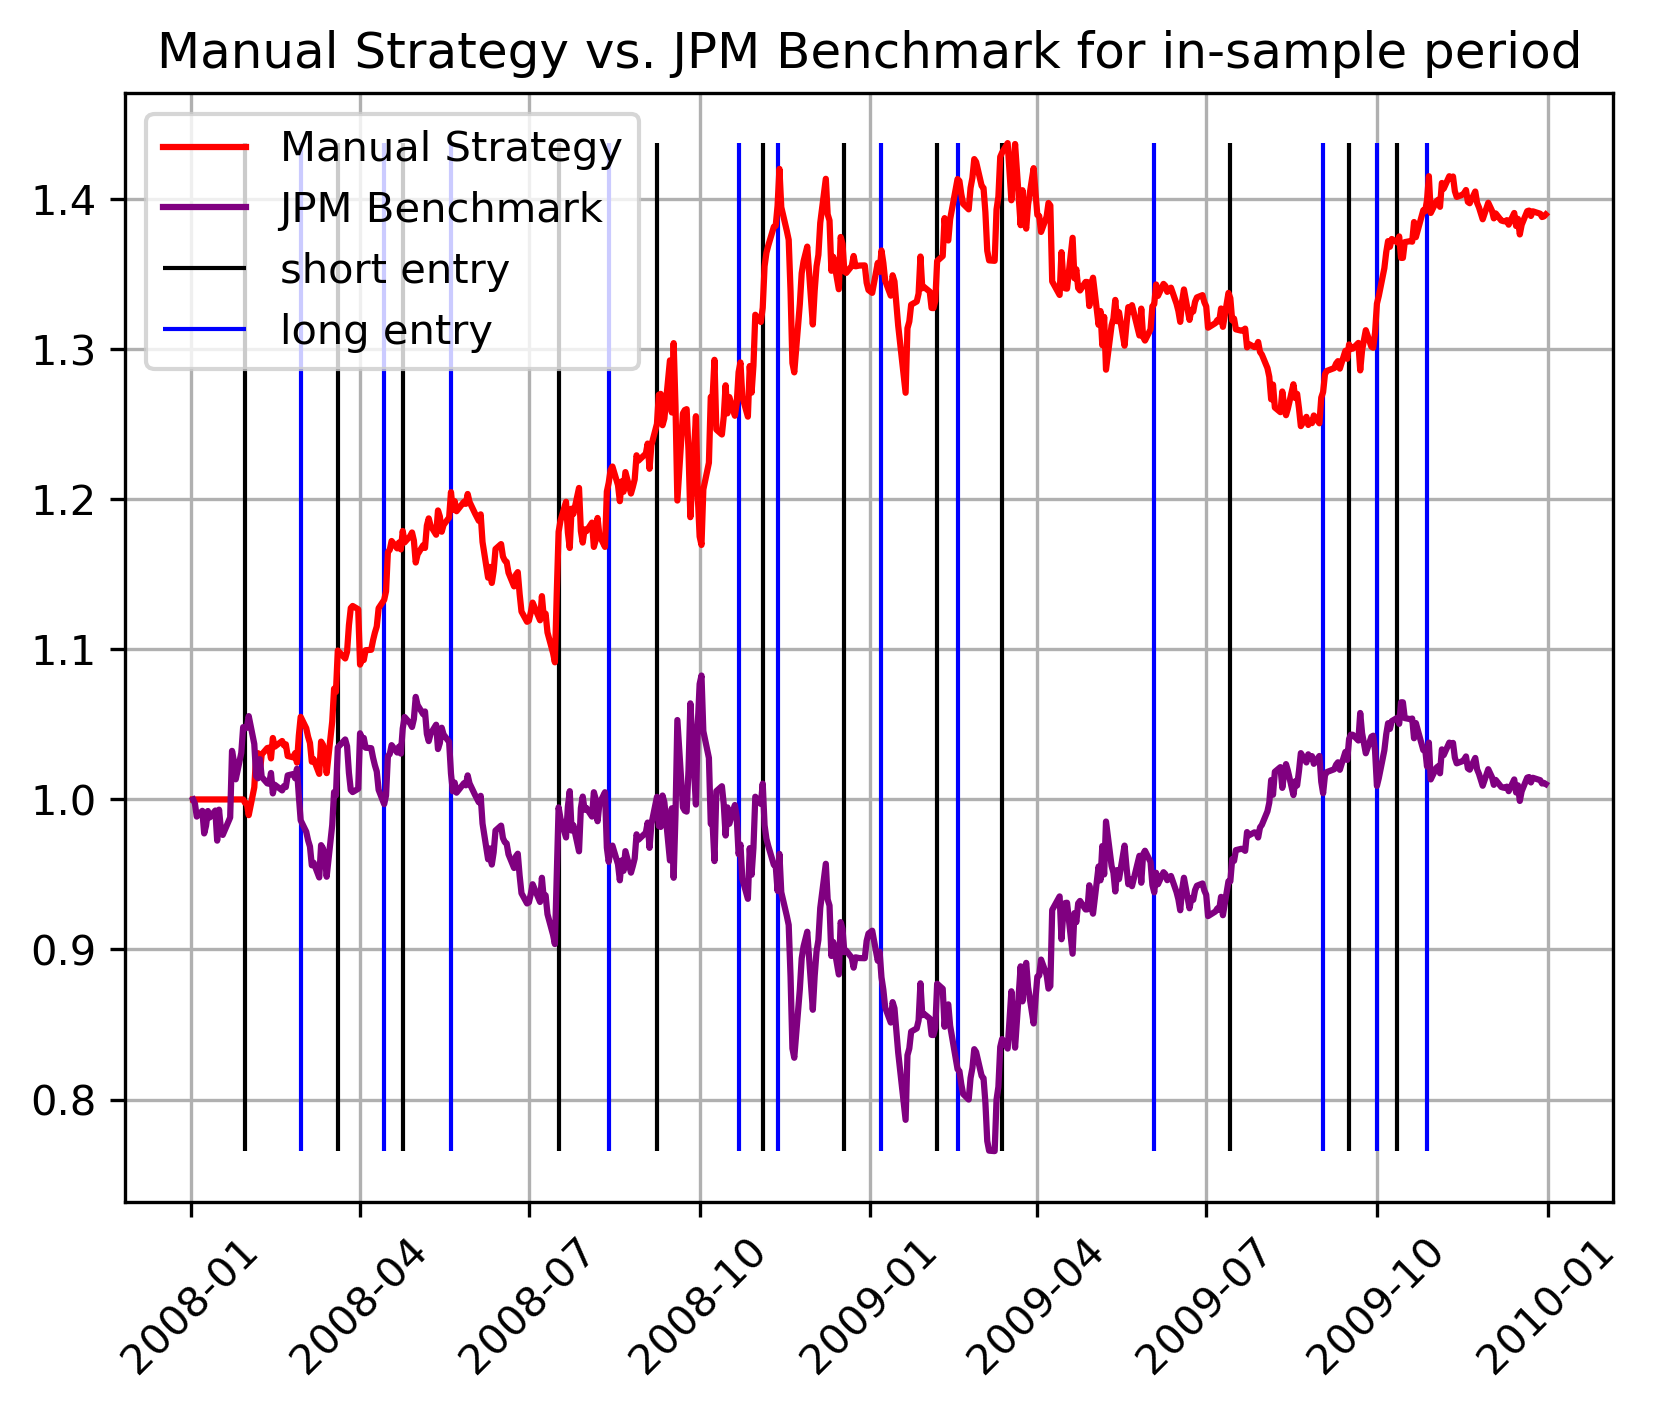
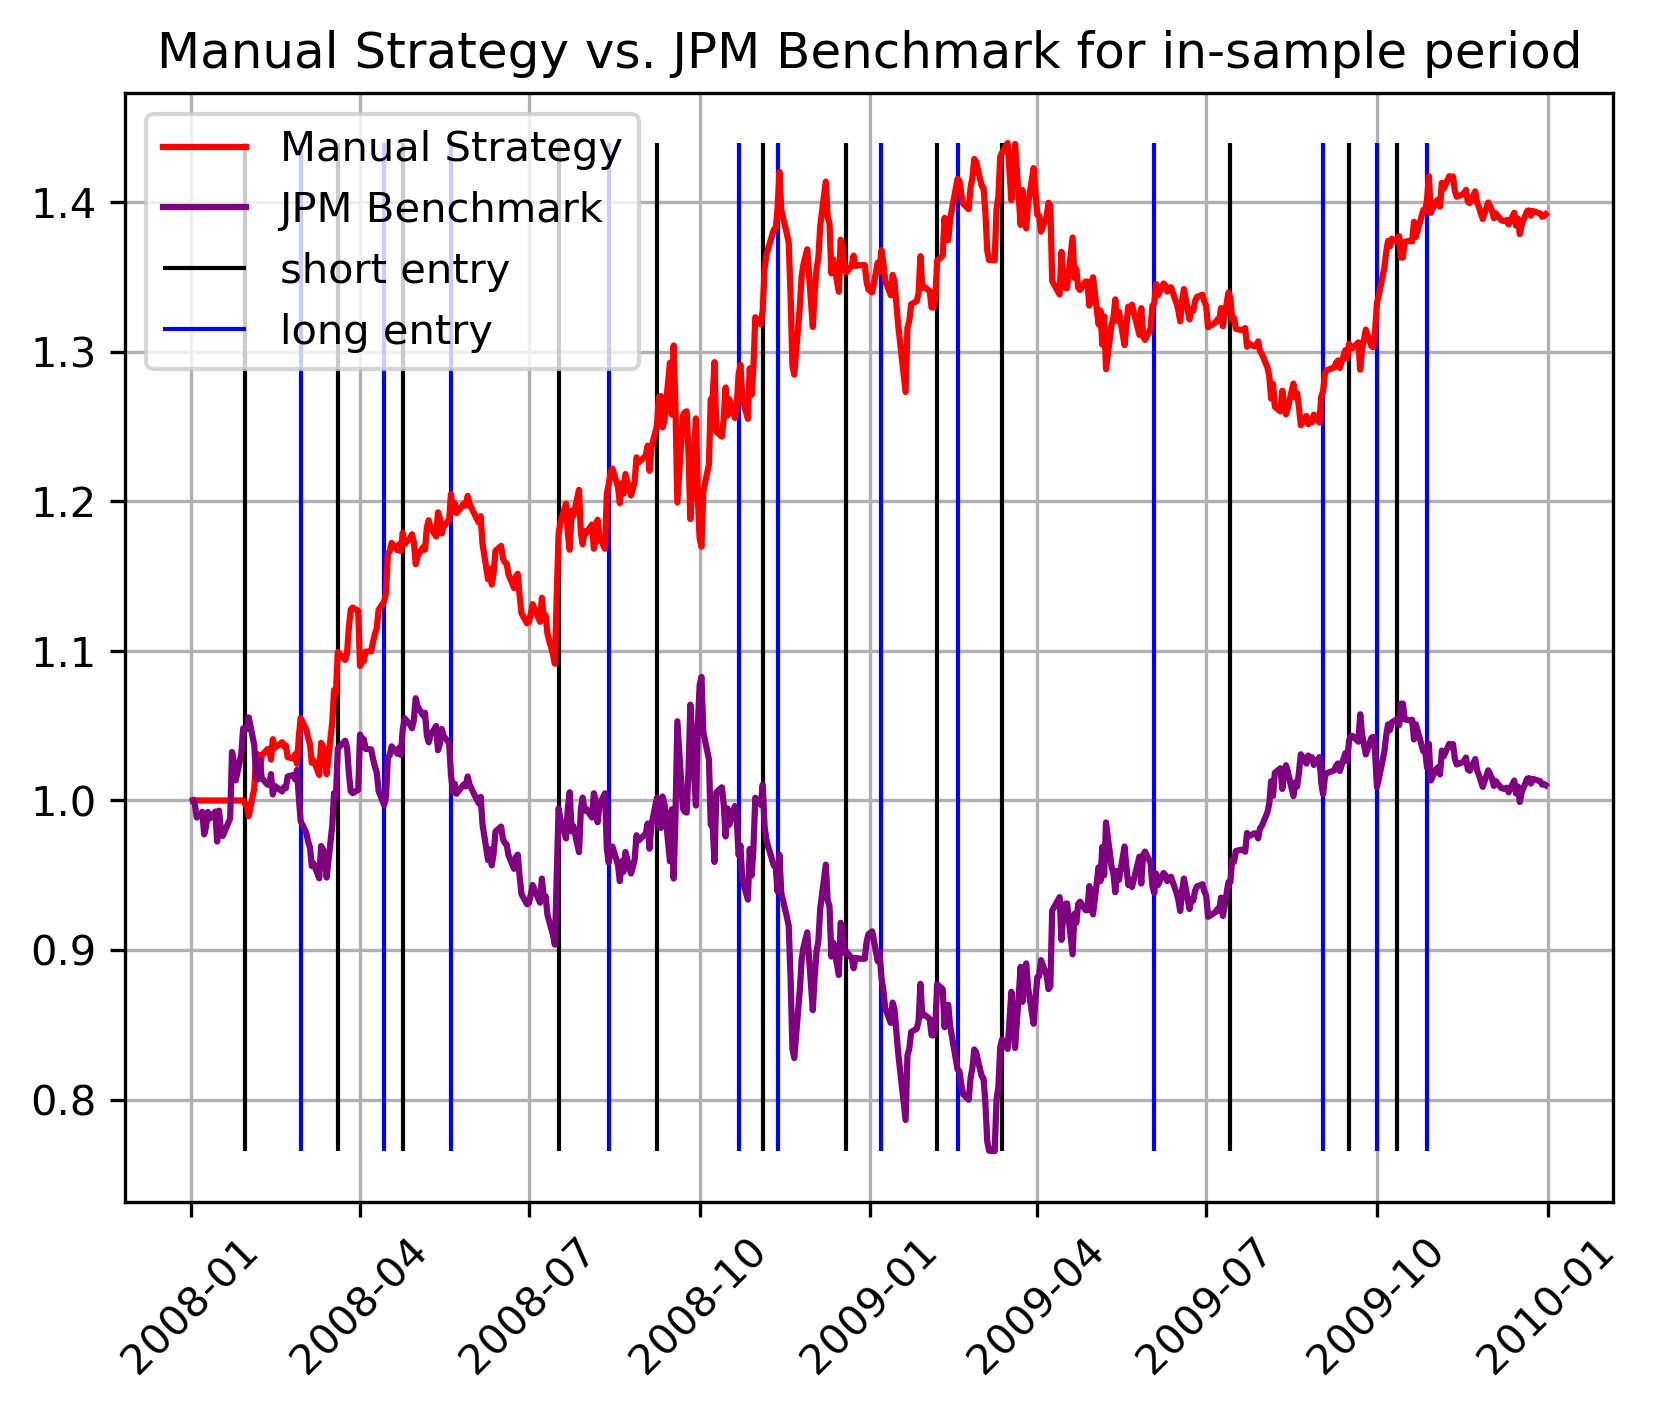
Using momentum in indicators Tuned some params in StrategyLearner.py New Images generated

diff --git a/strategy_evaluation/ManualStrategy.py b/strategy_evaluation/ManualStrategy.py
@@ -40,7 +40,7 @@ class ManualStrategy:
     long = []
 
     for i in range(len(prices)):
-      if ((BBP[i] >= 0.75 and CCI[i] >= 100) or ROC[i] >= 25) and holding >= 0:
+      if ((BBP[i] >= 0.75 and CCI[i] >= 100) or ROC[i] >= 0.2) and holding >= 0:
         #sell
         if holding==0:
           df_trades.loc[prices.index[i]] = -delta
@@ -49,7 +49,7 @@ class ManualStrategy:
         short.append(prices.index[i])
         holding += df_trades.loc[prices.index[i]].values[0]
 
-      elif ((BBP[i] <= 0.25 and CCI[i] <= -100) or ROC[i] <= -25) and holding <= 0:
+      elif ((BBP[i] <= 0.25 and CCI[i] <= -100) or ROC[i] <= -0.2) and holding <= 0:
         #buy
         if holding==0:
           df_trades.loc[prices.index[i]] = delta

diff --git a/strategy_evaluation/StrategyLearner.py b/strategy_evaluation/StrategyLearner.py
@@ -59,7 +59,7 @@ class StrategyLearner(object):
         self.verbose = verbose
         self.impact = impact
         self.commission = commission
-        self.ql = ql.QLearner(num_states=1000, num_actions=3, alpha=0.2, gamma=0.9, rar=0.9, radr=0.99, dyna=0, verbose=False)
+        self.ql = ql.QLearner(num_states=1000, num_actions=3, alpha=0.1, gamma=0.15, rar=0.2, radr=0.99, dyna=0, verbose=False)
 
         # this method should create a QLearner, and train it for trading
 

diff --git a/strategy_evaluation/indicators.py b/strategy_evaluation/indicators.py
@@ -60,7 +60,7 @@ def get_PPO(prices):
 def get_ROC(prices, rate):
   SMA = prices.rolling(rate).mean()
   close = prices
-  ROC = ((close - close.shift(periods=rate-1))/close.shift(periods=rate-1))*100
+  ROC = (prices / prices.shift(rate)) - 1
 
   return ROC
 
